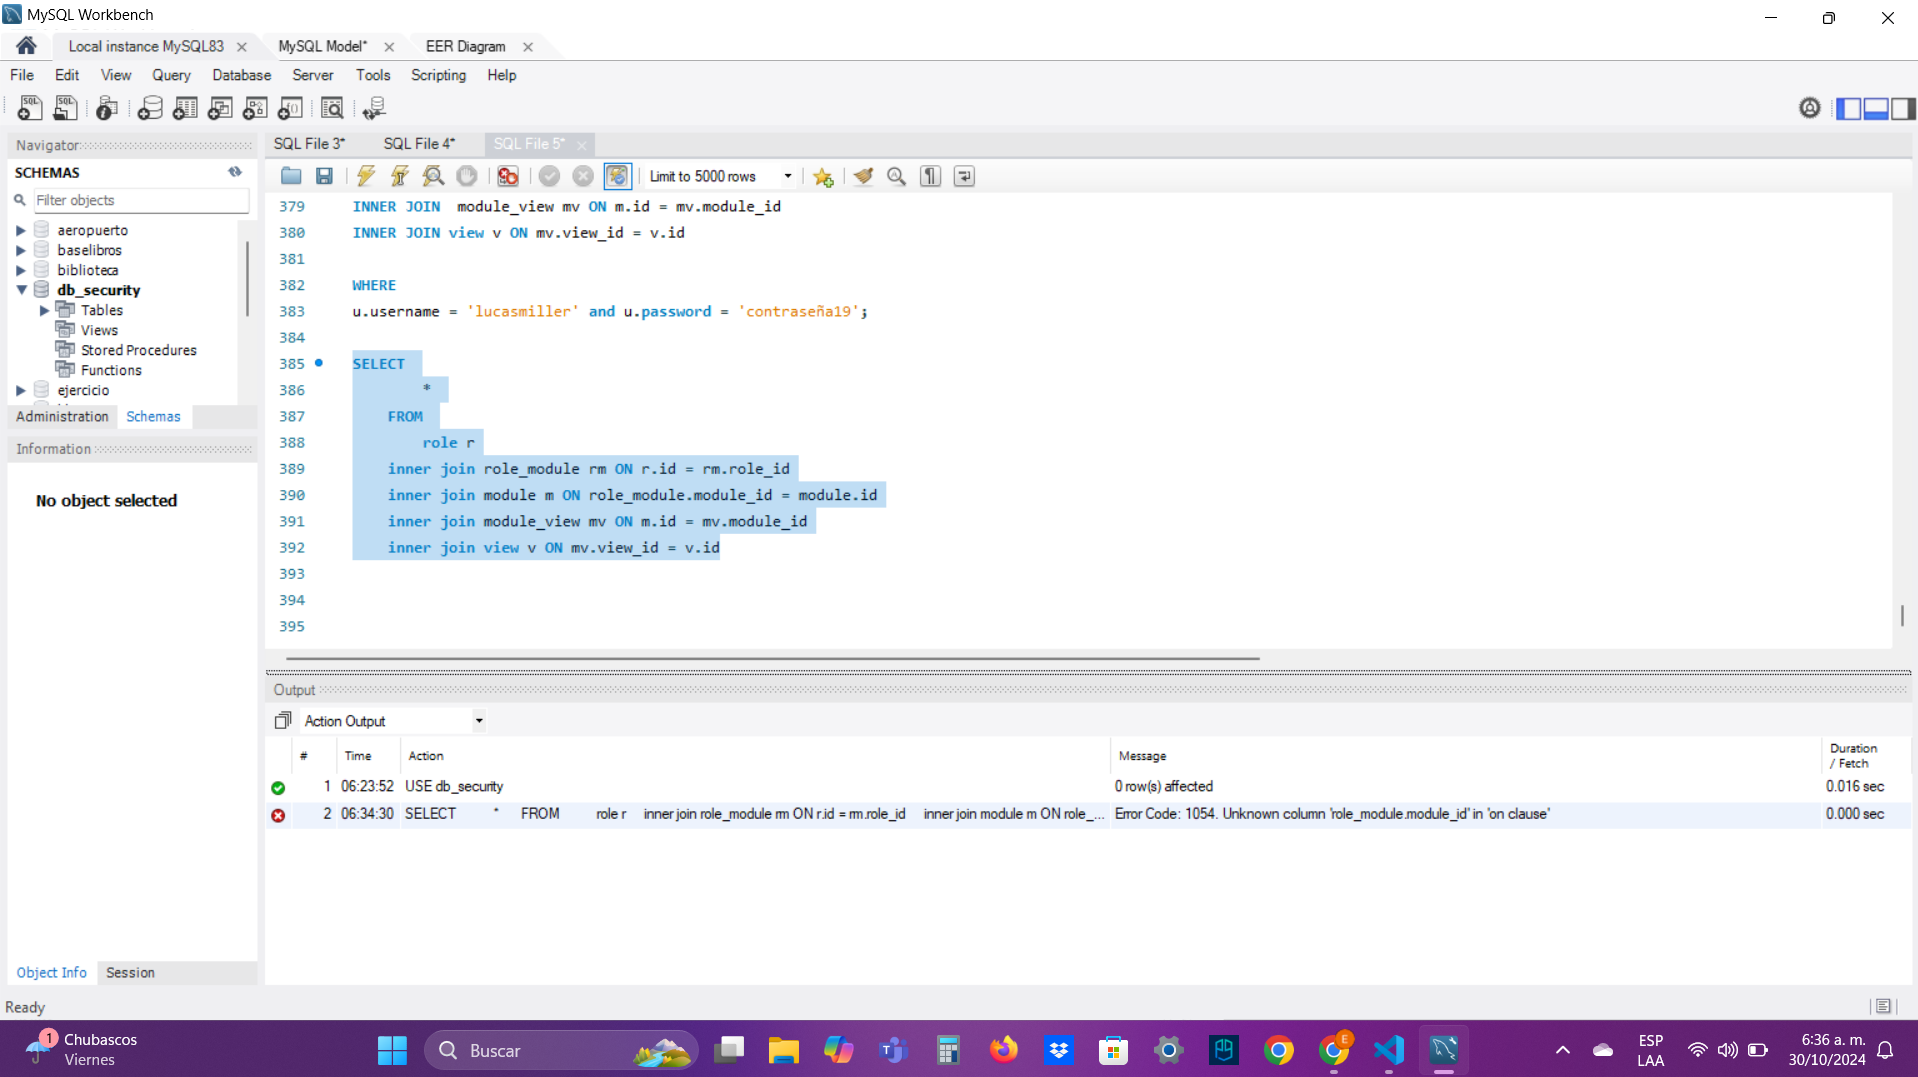
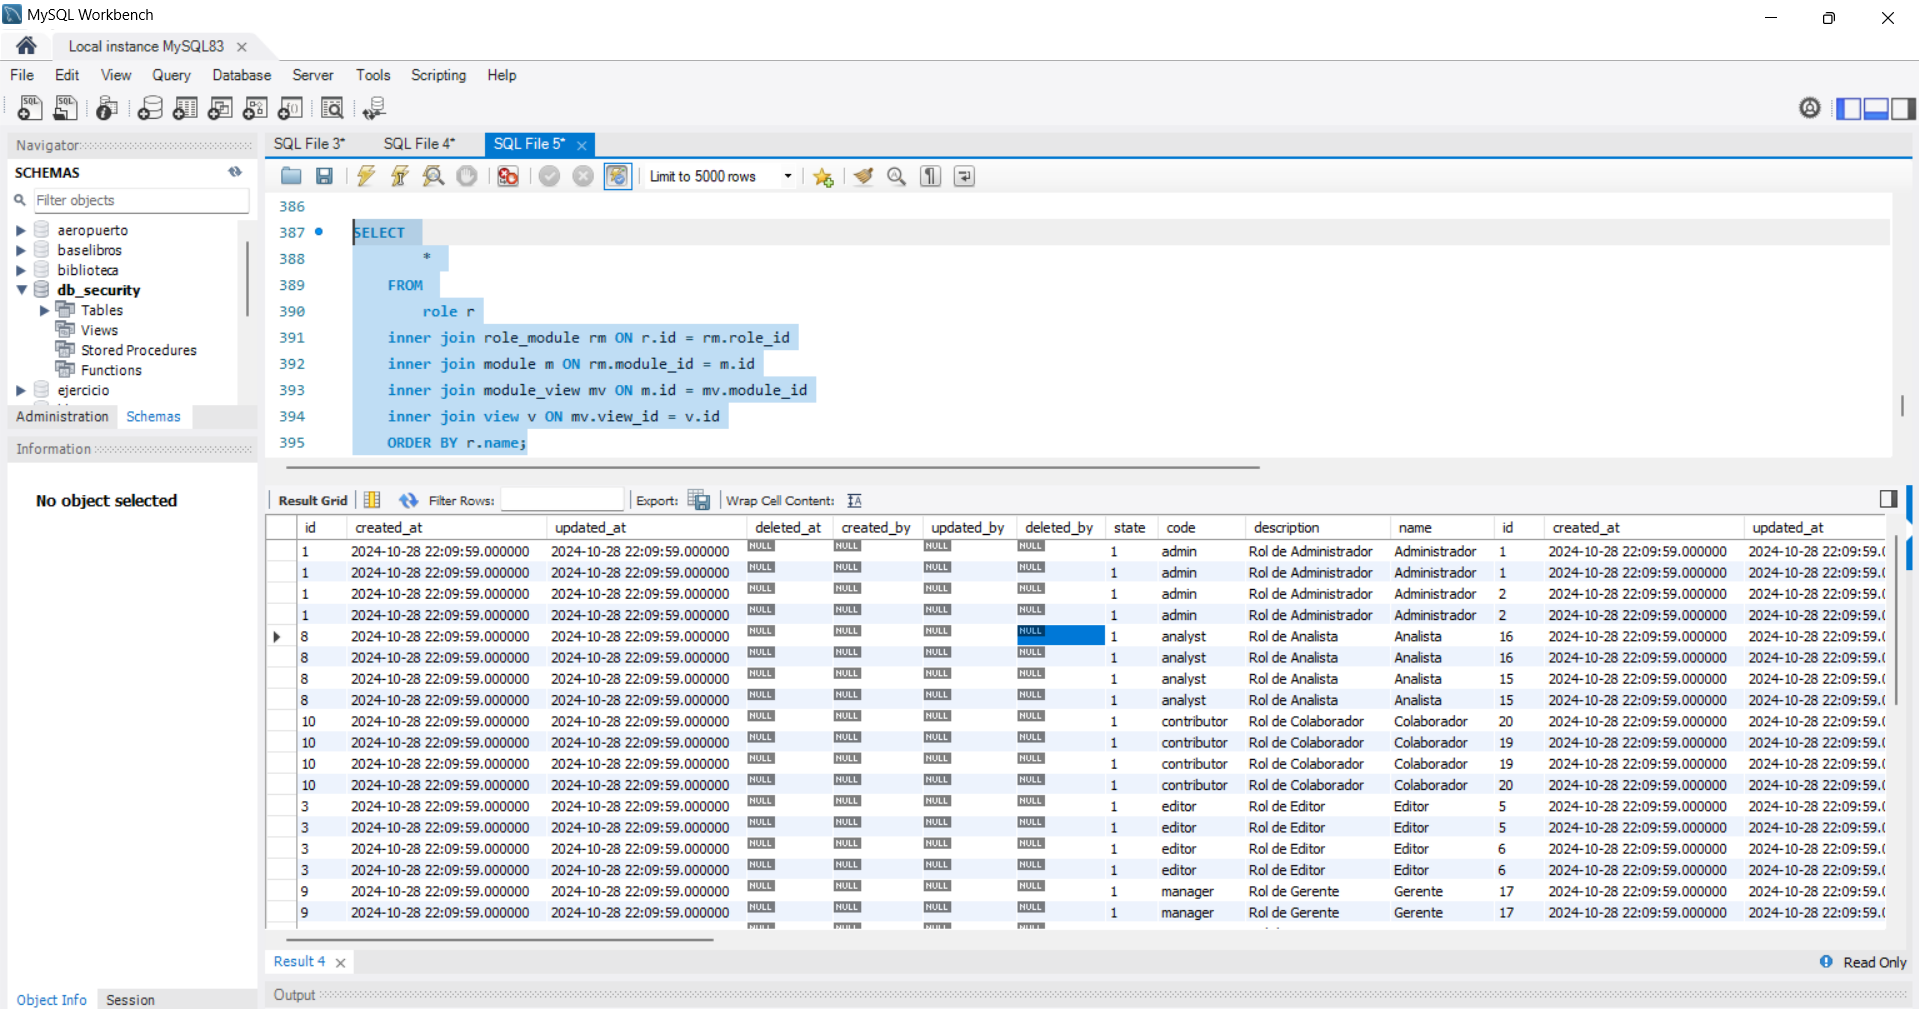
caso 1

Changed region(s): [[0.0, 0.0, 1.0, 1.0], [0.9228, 0.0922, 1.0, 0.1229]]

diff --git a/caso1/caso1.md b/caso1/caso1.md
@@ -1,12 +1,39 @@
 # Caso 1
+
+### (*)
+```js
 SELECT 
         * 
     FROM 
         role r
     inner join role_module rm ON r.id = rm.role_id
-    inner join module m ON role_module.module_id = module.id
+    inner join module m ON rm.module_id = m.id
     inner join module_view mv ON m.id = mv.module_id
     inner join view v ON mv.view_id = v.id
+    ORDER BY r.name;
+```
 
-### img
+### (atributos)
+```js    
+SELECT 
+    r.name AS rol,
+    m.name AS nombre,
+    m.path AS paquete,
+    v.name AS vista,
+    v.path AS ruta
+FROM
+    role r 
+    INNER JOIN role_module rm ON r.id = rm.role_id
+    INNER JOIN module m ON rm.module_id = m.id
+    INNER JOIN module_view mv ON m.id = mv.module_id
+    INNER JOIN view v ON mv.view_id = v.id 
+WHERE r.state = true
+ORDER BY r.name;
+```
+
+
+## img
+### (*)   
 ![imagen caso 1](img/caso1.png)
+### (atributos)
+![imagen caso 1](img/caso1.1.png)
